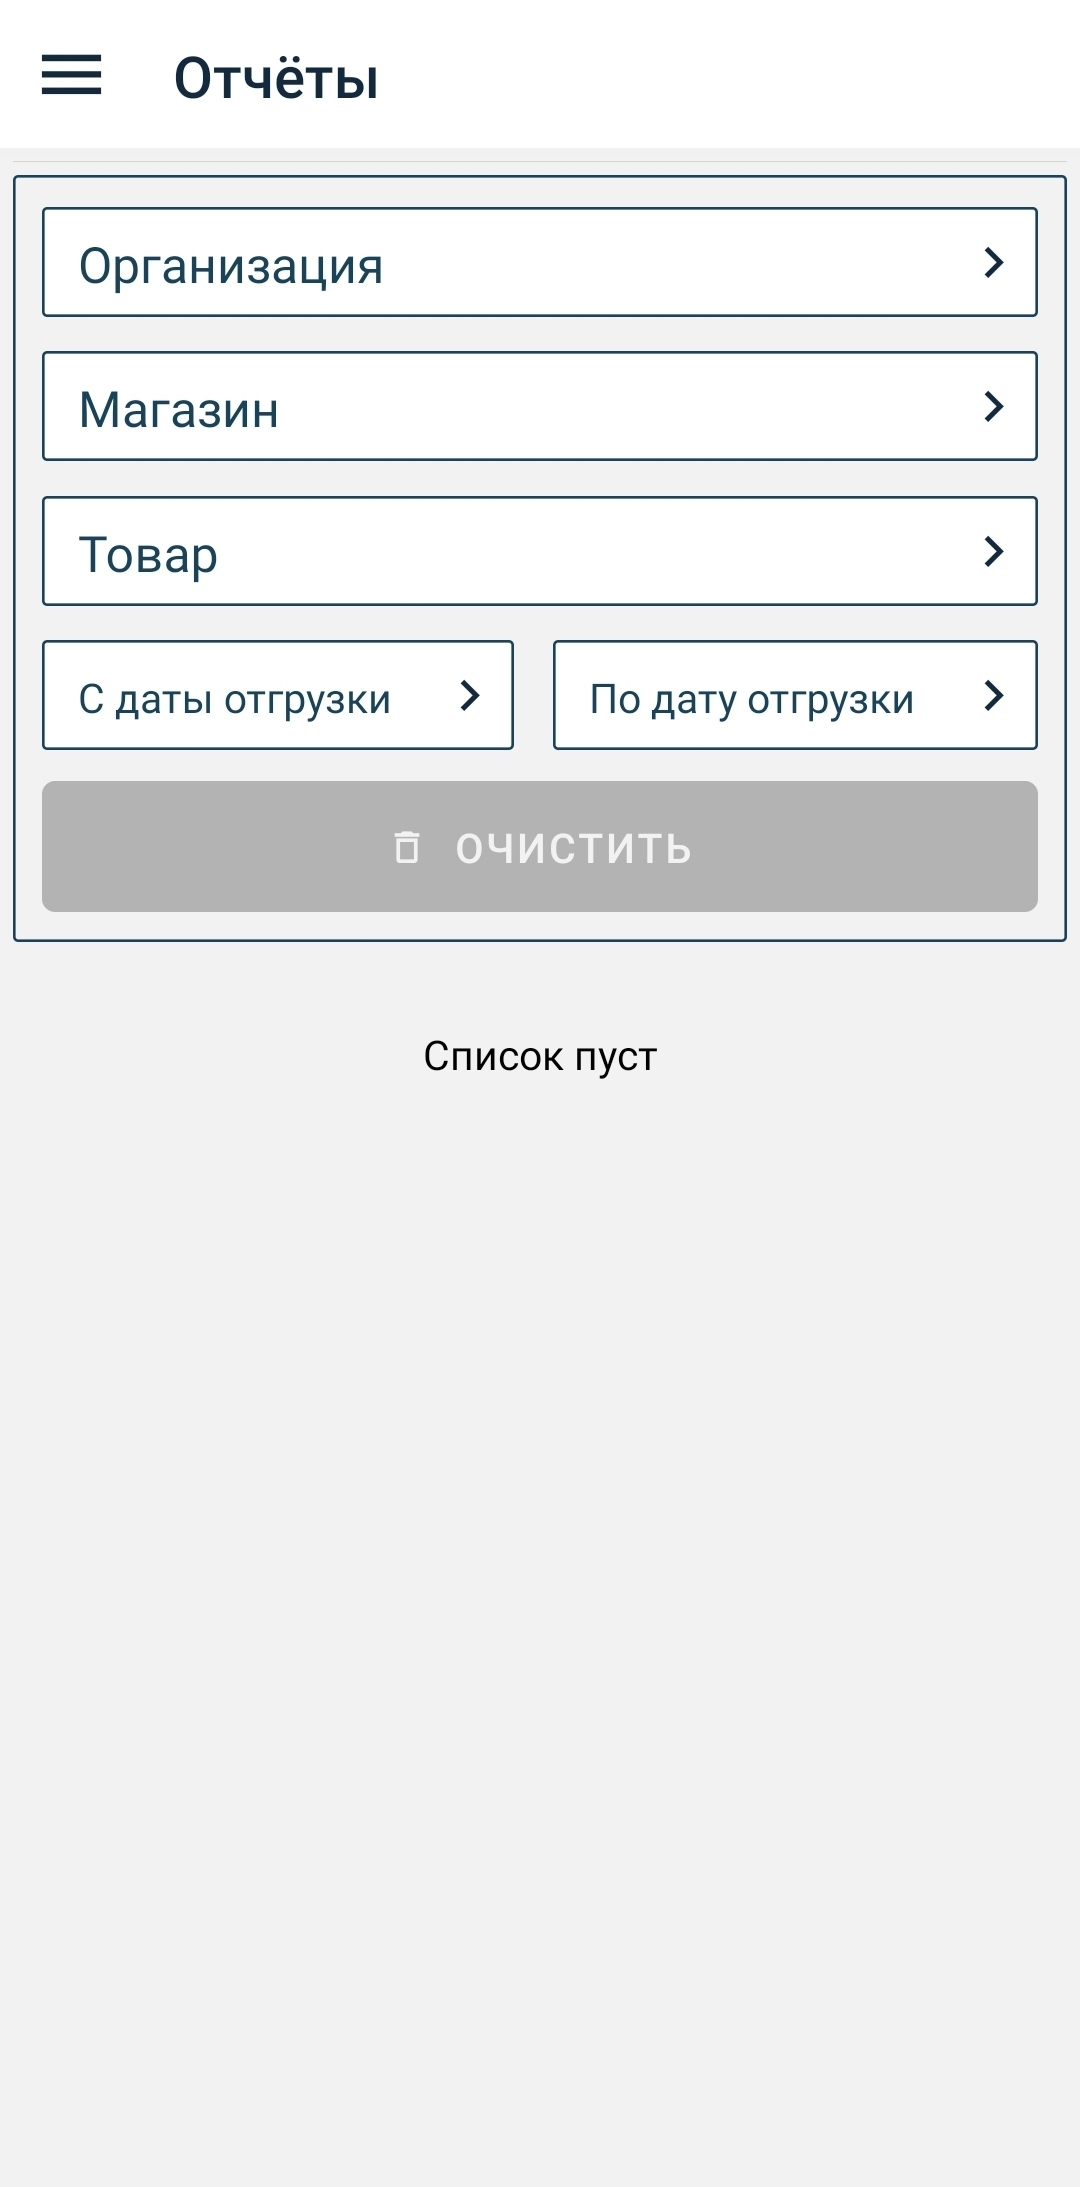
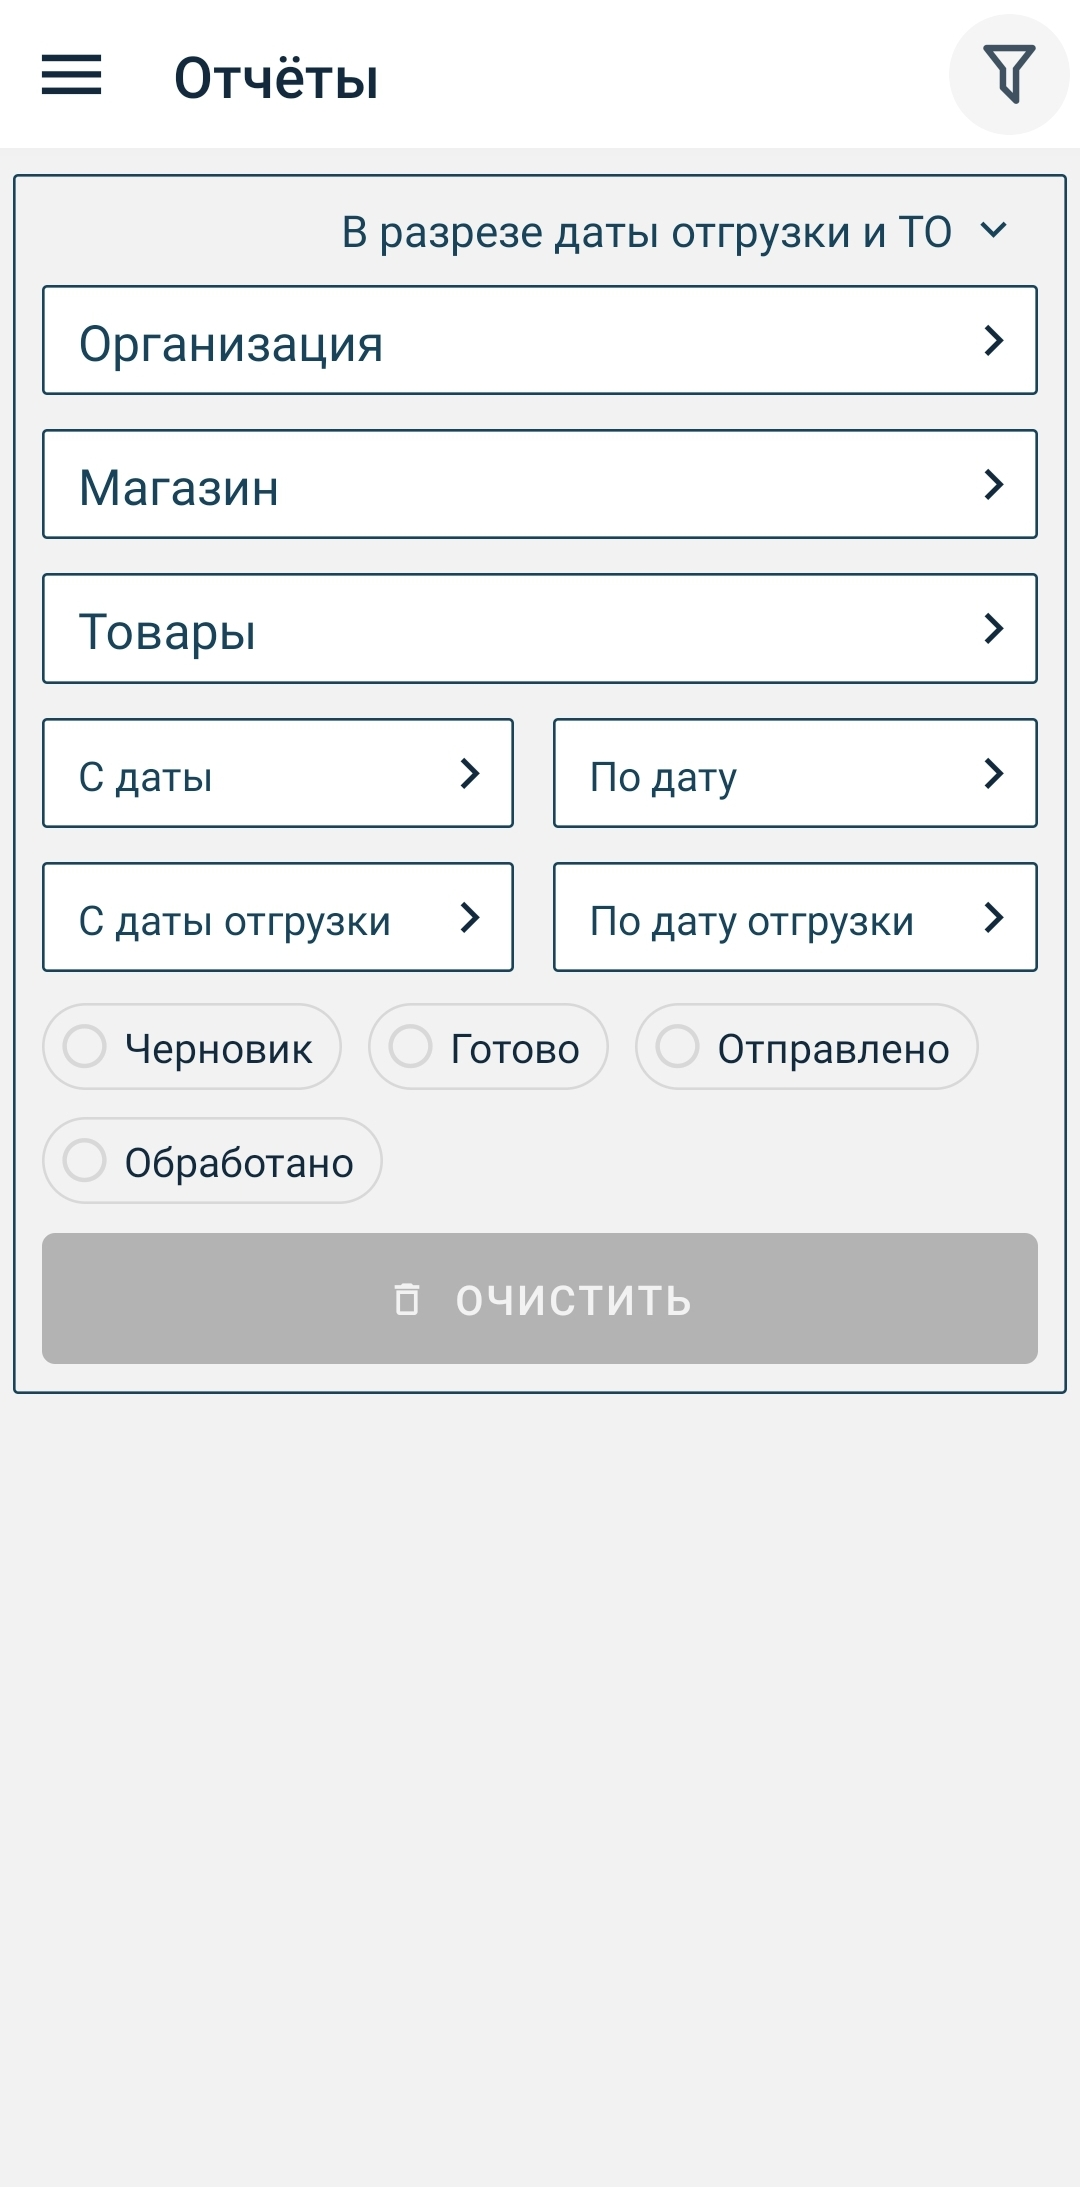
Changes docs Reports

diff --git a/docs/gdmn-app-trade-agents/docs/README.md b/docs/gdmn-app-trade-agents/docs/README.md
@@ -432,17 +432,33 @@
 
 ## 8. Отчёты
 
-На экране **Отчёты** можно ПРОСМОТРЕТЬ данные о сделанных заявках:
+Для увеличения области окна с данными отчета, можно скрывать форму параметров, нажатием на иконку фильтрации <img src="img/1.Connection/7.IconFiltr.jpg" alt="drawing" height="20"/>.
+
+<img src="img/4.Returns/4.ReportWithoutFiltr.jpg" alt="drawing" height="250"/> <img src="img/4.Returns/4.ReportWithFiltr.jpg" alt="drawing" height="250"/>
+
+На экране **Отчёты** можно ПРОСМОТРЕТЬ ДАННЫЕ о сделанных заявках:
   - по названию организации
   - по названию магазина
   - по названию товара
-  - в определённый период
+  - по статусу заявки
+  - в определённый период (по дате отгрузки или по дате создания документа)
 
   <img src="img/4.Returns/4.Report.jpg" alt="drawing" height="400"/>
 
- Если есть необходимость просмотреть саму заявку, например, отгруженные позиции, то надо перейти в пункт меню **Заявки** и воспользоваться фильтром, так как в **Отчёте** отображается только список магазинов по товару.
+А в правом верхнем углу отображен компонент с выпадающим списком отчетов: 
+
+- **"В разрезе даты отгрузки и ТО"** отображает список ТО по дням. А также если указать параметр "Товар", то по каждому ТО отобразится вес данного товара в разрезе упаковок.
+
+- **"В разрезе групп"** отображает вес по группам, которые можно выбирать в параметре "Группы". Например, выбрав все группы по полуфабрикатам, можно узнать их вес.
+
+- **"В разрезе товаров"** отображает вес товаров в разрезе цехов, групп и товаров.
+
+<img src="img/4.Returns/4.SectionalReport.jpg" alt="drawing" height="400"/>
+
+ Если есть необходимость просмотреть не только саму заявку, а, например, и ещё отгруженные позиции, то надо перейти в пункт меню **Заявки** и воспользоваться фильтром, так как в **Отчёте** отображается только список магазинов по товару.
  
  <img src="img/4.Returns/4.AgainReport.jpg" alt="drawing" height="400"/>
+
 
 ## 9. Маршруты
 
@@ -642,6 +658,7 @@
 | <img src="img/1.Connection/1.IconAutoTransl.jpg" alt="drawing" height="22"/> | перевод документа из статуса **Черновик** в статус **Готов к отправке** |
 |<img src="img/1.Connection/1.IconSend.jpg" alt="drawing" height="22"/>   | отправка документа |
 |<img src="img/6.Maps/6.Icon.jpg" alt="drawing" height="22"/>| смена маршрута
+|<img src="img/1.Connection/7.IconFiltr.jpg" alt="drawing" height="20"/>      | фильтр |
 | " **≡** "   | меню документа |
 |" **✓** "  | сохранить  |
 |" **✚** "| добавление нового документа |
